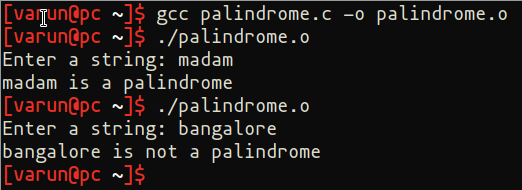
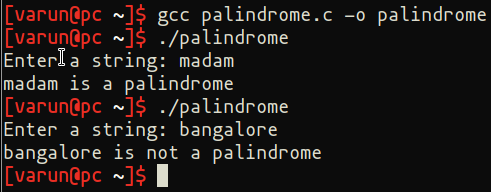
modified palindrome part in week3 doc

Changed region(s): [[0.0, 0.0, 1.0, 1.0]]

diff --git a/docs/week3.md b/docs/week3.md
@@ -411,14 +411,14 @@ int main(){
     ...
     ```
 
-    - **for loop** is used to iterate through the array **input_string** which contains the input accepted from the user.
+    - **for loop** is used to iterate through the array **input_string** which contains the input accepted from the user
     - for loop syntax: **for(intialization; test-condition; updation)**
-    - *for ex:* **input_array = madam**, each of the character in the string **madam** is given an index postion, which starts from 0.
+    - *for ex:* **input_array = madam**, each of the character in the string **madam** is given an index postion, which starts from 0
     - characters assigned with the index positions: **m = 0, a = 1, d = 2, a = 3, m = 4**
     - hence, we the intialization starts with **i = 0**
-    - and it loops until it reaches last index position 4 being the character **"m"**.
-    - **i++** increments with 1 at each loop.
-    - when the value of **i** increments to 6 (i = 6), the condition **i < length** fails, because **i** is not less than the variable **length** (length = 5).
+    - and it loops until it reaches last index position 4 being the character **"m"**
+    - **i++** increments with 1 at each loop
+    - when the value of **i** increments to 6 (i = 6), the condition **i < length** fails, because **i** is not less than the variable **length** (length = 5)
 
 6. Logic to test the given string is palindrome or not:
     ```c
@@ -429,16 +429,16 @@ int main(){
         break;
     ...
     ```
-    - this logic works inside the for loop, at each iteration, i.e, for every character of the **input_string** array.
+    - this logic works inside the for loop, at each iteration, i.e, for every character of the **input_string** array
     - *for ex:* if(madam[0] != madam[5-0-1]) -> if(m != m)
-    - which fails the test condition, and the flag statement won't be executed.
-    - and loops until the if condition satisfies, in this example, for madam array, it never sets the flag to 1.
-    - Hence, the flag will always be set to 0 in this madam example.
+    - which fails the test condition, and the flag statement won't be executed
+    - and loops until the if condition satisfies, in this example, for madam array, it never sets the flag to 1
+    - Hence, the flag will always be set to 0 in this madam example
     - *for ex:* input_string = bangalore
     - then, if(bangalore[0] != bangalore[9-0-1] -> if(b != e)
-    - in this example the test condition is satisftied at the first iteration itself.
-    - Now, the flag will be set to 1, i.e, **flag = 1** statement inside the if condition is executed.
-    - Next statement being **break**, breaks out of the **for loop**, and jumps straight to the very next statements outside the for loop.
+    - in this example the test condition is satisftied at the first iteration itself
+    - Now, the flag will be set to 1, i.e, **flag = 1** statement inside the if condition is executed
+    - Next statement being **break**, breaks out of the **for loop**, and jumps straight to the very next statements outside the for loop
 
 7. Display message to inform the user if the **input_string** is palindrome or not:
     ```c
@@ -472,15 +472,15 @@ $gcc --version
 
 1. First step is to compile the above written palindrome C program:
     ```terminal
-    $gcc palindrome.c -o palindrome.o
+    $gcc palindrome.c -o palindrome
     ```
-    - Here, **palindrome.c** is the C file, and **gcc** command is used for compilation
-    - we're passing the compiled output to be stored in a **object file or binary file** called **palindrome.o**
+    - Here, **palindrome.c** is the C file, and **gcc** command is used to compile it
+    - we're passing the compiled output to be stored in an **object file or binary file** called **palindrome**
     - the above step of outputing the compiled program is done by passing the option **"-o"**
 
-2. In the second step use the **object file** created i.e., **palindrome.o** to execute the compiled program:
+2. In the second step use the **object file** created i.e., **palindrome** to execute the compiled program:
     ```terminal
-    $./palindrome.o
+    $./palindrome
     ```
     Here **"./"** is prefixed to the object code file to run it
 
